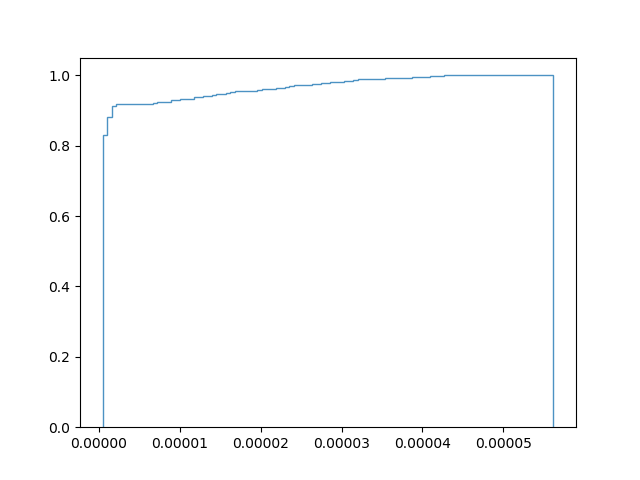
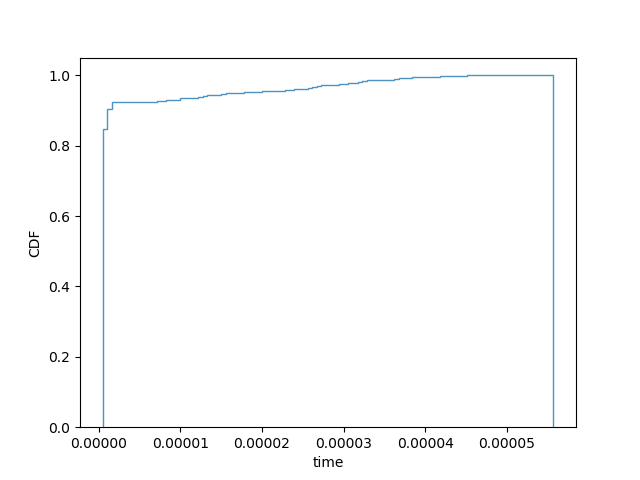
Adds x axis label to figures

diff --git a/HW3/test_random_files.py b/HW3/test_random_files.py
@@ -90,6 +90,8 @@ bins = np.arange(min_time, max_time, (max_time-min_time)/100)
 print(bins)
 plt.hist(read_times, bins=bins, normed=True, cumulative=True,
          label='CDF', histtype='step', alpha=0.8)
+plt.xlabel('time')
+plt.ylabel('CDF')
 
 plt.show()
 # for read_time in read_times:

diff --git a/HW3/README.md b/HW3/README.md
@@ -1,1 +1,2 @@
-https://www3.nd.edu/~pbui/teaching/cse.30341.fa17/project06.html
+# OS HW3
+To handle the test with 500 files, whose file names, each taking up 128 bytes, would need over 60000 bytes, I made the file system nonpersistent to accommodate for the data. To make the file system persistent, change the constant `PERSISTENT` to true in uva_fs.c

diff --git a/HW3/notes.md b/HW3/notes.md
@@ -1,0 +1,1 @@
+https://www3.nd.edu/~pbui/teaching/cse.30341.fa17/project06.html
